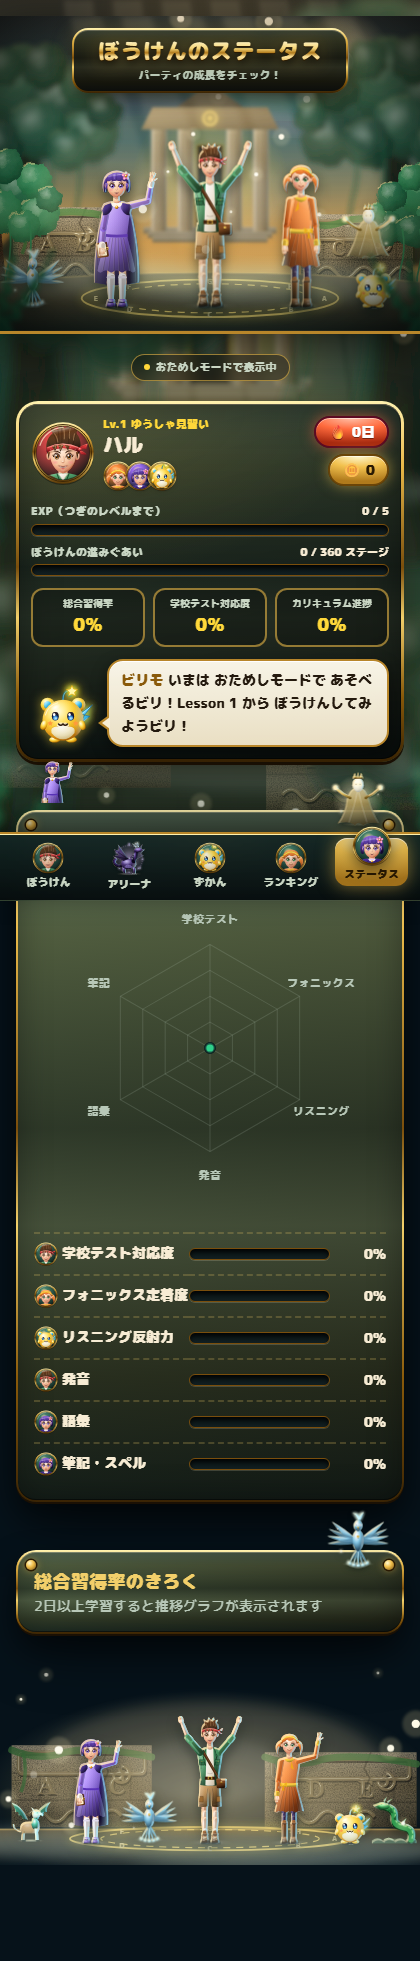
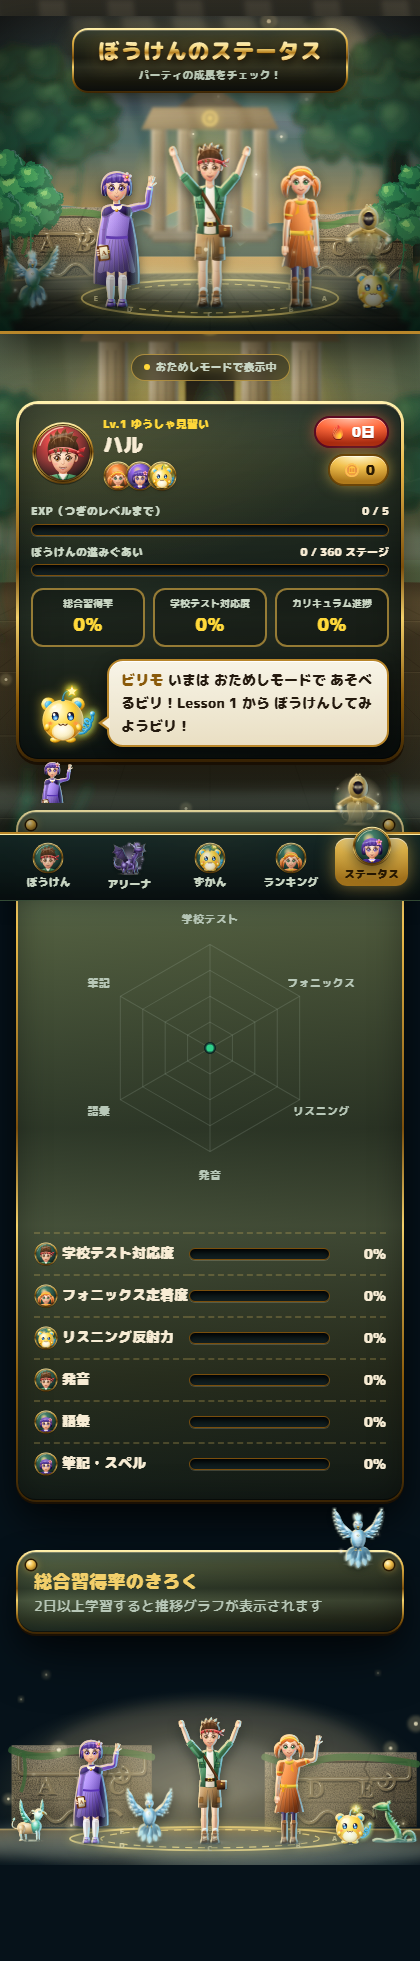
Phase 10: DB を止めたままスモークテスト → 見つけた問題をぜんぶ修正して再確認（テストの選択肢の重複、マップの「ここ！」とワールド名の重なり、かいわの返事が「Hi!」だけになる、レッスン画面の Session 表記を Lesson に統一。最終スクリーンショットは docs/night2/screens/final）

diff --git a/src/components/map/WorldMap.tsx b/src/components/map/WorldMap.tsx
@@ -229,6 +229,10 @@ export function WorldMap({ nodes }: { nodes: StageNode[] }) {
         const left = p.x > W / 2;
         const bx = left ? p.x - 150 : p.x + 38;
         const sleepy = safeNodes[curIdx]?.status === "WAIT_TOMORROW";
+        // ワールドの さいしょの ステージでは 上に ワールド名の プレートが あるので、ビリモと「ここ！」は ステージの よこ（パーティと はんたい がわ）に おく
+        const firstOfWorld = curIdx === 0 || safeNodes[curIdx - 1]?.world !== safeNodes[curIdx]?.world;
+        const birimo = firstOfWorld ? { x: left ? p.x + 30 : p.x - 76, y: p.y - 26 } : { x: left ? p.x - 54 : p.x + 8, y: p.y - 92 };
+        const tag = firstOfWorld ? { x: birimo.x + 23, y: p.y - 34 } : { x: left ? p.x - 28 : p.x + 30, y: p.y - 100 };
         return (
           <g pointerEvents="none">
             <path d={`M${bx + 30} ${p.y - 170} L${bx + 70} ${p.y - 170} L${bx + 112} ${p.y + 30} L${bx - 12} ${p.y + 30} Z`} fill="#fff1c2" opacity={0.12} filter="url(#f-dof-2)" />
@@ -237,9 +241,9 @@ export function WorldMap({ nodes }: { nodes: StageNode[] }) {
               {([["riko", 0, 0.42], ["kiko", 66, 0.4], ["haru", 26, 0.5]] as const).map(([id, dx, s]) => (
                 <g key={id} transform={`translate(${bx + dx} ${p.y + 30 - 170 * s})`}><g transform={`scale(${s})`}><Standing id={id} pose={id === "haru" ? "point" : "wave"} /></g></g>
               ))}
-              <g transform={`translate(${left ? p.x - 54 : p.x + 8} ${p.y - 92}) scale(0.46)`}><g className="bob"><BirimoArt mood={sleepy ? "sleepy" : "excited"} /></g></g>
+              <g transform={`translate(${birimo.x} ${birimo.y}) scale(0.46)`}><g className="bob"><BirimoArt mood={sleepy ? "sleepy" : "excited"} /></g></g>
             </g>
-            <g transform={`translate(${left ? p.x - 28 : p.x + 30} ${p.y - 100})`}>
+            <g transform={`translate(${tag.x} ${tag.y})`}>
               <rect x={-26} y={-14} width={52} height={20} rx={10} fill="#08150f" stroke="#e9b949" strokeWidth={1.5} />
               <text y={1} textAnchor="middle" fontSize={11} fontWeight={900} fill="#f2cf6a">{sleepy ? "また明日" : "ここ！"}</text>
             </g>

diff --git a/src/lib/conversation/engine.ts b/src/lib/conversation/engine.ts
@@ -204,14 +204,19 @@ export function scriptedReply(input: ScriptedInput): ConversationReply {
   const aiSaid = new Set(history.filter((t) => t.role === "ai").map((t) => t.text.toLowerCase()));
   const childWords = new Set(normalizeWords(childText));
   const childContent = new Set(contentWords(childText));
+  // 子どもが 2つの 文を 言ったとき（"Hello! I'm Ken."）は、台本の いちばん 先まで すすんだ 行に あわせる
+  // （さいしょの "Hello!" に あわせると 返事が "Hi!" だけに なり、かいわが すすまない）
   let bestIdx = -1;
   let bestScore = 0;
+  const contentIdx: number[] = [];
   conv.lines.forEach((l, i) => {
     const lw = normalizeWords(l.en);
     if (lw.length === 0) return;
     const content = lw.filter((w) => !STOPWORDS.has(w));
-    const score = content.filter((w) => childContent.has(w)).length * 2 + lw.filter((w) => childWords.has(w)).length / lw.length;
+    const contentHits = content.filter((w) => childContent.has(w)).length;
+    const score = contentHits * 2 + lw.filter((w) => childWords.has(w)).length / lw.length;
     if (score > bestScore) { bestScore = score; bestIdx = i; }
+    if (contentHits > 0) contentIdx.push(i);
   });
 
   const aiSaidList = [...aiSaid];
@@ -219,6 +224,9 @@ export function scriptedReply(input: ScriptedInput): ConversationReply {
     const en = conv.lines[i]?.en.trim().toLowerCase();
     return !!en && !aiSaidList.some((s) => s === en || s.endsWith(` ${en}`));
   };
+  const hasNext = (i: number) => conv.lines.some((_, j) => j > i && unused(j));
+  const furthest = [...contentIdx].reverse().find(hasNext);
+  if (furthest !== undefined && furthest > bestIdx && hasNext(furthest)) bestIdx = furthest;
   let pick = -1;
   if (bestIdx >= 0) for (let i = bestIdx + 1; i < conv.lines.length; i++) if (unused(i)) { pick = i; break; }
   // 見つからないときは、まだ言っていない行を順番に

diff --git a/tests/choices-unique.test.ts b/tests/choices-unique.test.ts
@@ -1,0 +1,33 @@
+import { describe, expect, it } from "vitest";
+import { ASSESSMENTS, LESSONS } from "@/lib/curriculum";
+import { buildLessonFlow, buildTestQuestions, type Question } from "@/lib/curriculum/questions";
+
+/** 選択肢の 文字が かさなると どちらを えらんでも おなじに 見える（まとめテスト 1〜5 で「ジャンプして。」が 2つ 出ていた） */
+function dupes(qs: readonly Question[]): string[] {
+  const bad: string[] = [];
+  for (const q of qs) {
+    if (!q.choices) continue;
+    const labels = q.choices.map((c) => c.label.trim());
+    if (new Set(labels).size !== labels.length) bad.push(`${q.type} ${q.itemId}: ${labels.join(" / ")}`);
+  }
+  return bad;
+}
+
+describe("選択肢が かさならない", () => {
+  it("すべての テスト（いくつかの seed）", () => {
+    const bad: string[] = [];
+    for (const a of ASSESSMENTS) for (const seed of [1, 2, 3, 42]) bad.push(...dupes(buildTestQuestions(a, { seed })).map((d) => `${a.id}: ${d}`));
+    expect(bad).toEqual([]);
+  });
+
+  it("すべての レッスン（クイズ・スピードリスニング）", () => {
+    const bad: string[] = [];
+    for (const l of LESSONS) {
+      for (const step of buildLessonFlow(l)) {
+        const qs = (step as { questions?: Question[] }).questions ?? (step as { rounds?: { questions: Question[] }[] }).rounds?.flatMap((r) => r.questions) ?? [];
+        bad.push(...dupes(qs).map((d) => `L${l.lessonNo}: ${d}`));
+      }
+    }
+    expect(bad).toEqual([]);
+  });
+});

diff --git a/src/app/lesson/[lessonNo]/page.tsx b/src/app/lesson/[lessonNo]/page.tsx
@@ -119,9 +119,9 @@ export default function LessonPage({ params }: { params: Promise<{ lessonNo: str
   return (
     <div className="space-y-4">
       <OfflineNote show={offline} />
-      {s.kind === "teacher_video" && <HeroScene title={`Session ${lesson.lessonNo}`} subtitle={`${lesson.title}｜${lesson.titleJa}`} variant="lesson" />}
+      {s.kind === "teacher_video" && <HeroScene title={`Lesson ${lesson.lessonNo}`} subtitle={`${lesson.title}｜${lesson.titleJa}`} variant="lesson" />}
       <header className="rpg-wood p-3">
-        <p className="font-title text-xs text-[var(--volt)]">Session {lesson.lessonNo} ・ {worldName(lesson.world)} ・ {lesson.school.grade}「{lesson.school.topic}」</p>
+        <p className="font-title text-xs text-[var(--volt)]">Lesson {lesson.lessonNo} ・ {worldName(lesson.world)} ・ {lesson.school.grade}「{lesson.school.topic}」</p>
         <h1 className="text-xl font-black">{lesson.title} <span className="text-base text-[var(--on-dark-2)]">{lesson.titleJa}</span></h1>
         <ol className="mt-3 flex gap-1" aria-label="レッスンの進み具合">
           {steps.map((x, i) => (

diff --git a/src/lib/curriculum/questions.ts b/src/lib/curriculum/questions.ts
@@ -435,8 +435,20 @@ function shuffle<T>(arr: readonly T[], rng: () => number): T[] {
 }
 
 function distractors(target: LearningItemDef, pool: readonly LearningItemDef[], n: number, rng: () => number) {
-  const same = pool.filter((p) => p.id !== target.id && p.kind === target.kind && p.text !== target.text);
-  return shuffle(same, rng).slice(0, n);
+  // おなじ ことば・おなじ 日本語の 項目が べつの 回にも あるので、選択肢が かさならないように 1つずつに する
+  const norm = (s: string) => s.trim().toLowerCase();
+  const seenText = new Set([norm(target.text)]);
+  const seenJa = new Set([target.ja.trim()]);
+  const out: LearningItemDef[] = [];
+  for (const p of shuffle(pool, rng)) {
+    if (out.length >= n) break;
+    if (p.id === target.id || p.kind !== target.kind) continue;
+    if (seenText.has(norm(p.text)) || seenJa.has(p.ja.trim())) continue;
+    seenText.add(norm(p.text));
+    seenJa.add(p.ja.trim());
+    out.push(p);
+  }
+  return out;
 }
 
 // ---------------------------------------------------------------------------

diff --git a/scripts/smoke.ts b/scripts/smoke.ts
@@ -7,6 +7,7 @@
  *
  *   npx next build && npx next start -p 3100
  *   npx tsx scripts/smoke.ts http://localhost:3100
+ *   npx tsx scripts/smoke.ts http://localhost:3100 docs/night2/screens/final
  *
  * さいごに おためしモードの 流れも 確かめる:
  *   API（DB なし）: レッスン完了・かいわ・まとめ視聴 が success / ok で 返る
@@ -17,7 +18,8 @@ import path from "node:path";
 import { chromium, type Browser, type Page } from "playwright";
 
 const BASE = (process.argv[2] ?? process.env.SMOKE_URL ?? "http://localhost:3000").replace(/\/$/, "");
-const OUT = path.resolve(__dirname, "../docs/night2/screens");
+/** 保存先（2つめの 引数 か SMOKE_OUT で かえられる。さいごの 確認は docs/night2/screens/final） */
+const OUT = path.resolve(process.argv[3] ?? process.env.SMOKE_OUT ?? path.resolve(__dirname, "../docs/night2/screens"));
 
 /** 各ワールドの さいしょの レッスン（1, 31, 61, … 331） */
 const WORLD_LESSONS = Array.from({ length: 12 }, (_, i) => i * 30 + 1);

diff --git a/tests/conversation.test.ts b/tests/conversation.test.ts
@@ -90,6 +90,13 @@ describe("台本エンジン: 返事", () => {
     expect(r.turn).toBe(1);
   });
 
+  it("2つの 文（Hello! I'm Ken.）は 台本の 先の 行に あわせて すすむ（Hi! だけに ならない）", () => {
+    const r = scriptedReply({ conversation: C1, history: start, childText: "Hello! I'm Ken." });
+    expect(r.replyEn).not.toMatch(/^(Great! )?Hi!$/);
+    expect(r.replyEn).not.toContain("Ken");
+    expect(r.usedTarget).toBe(true);
+  });
+
   it("子どもの名前をオウム返ししない", () => {
     const r = scriptedReply({ conversation: C1, history: start, childText: "I'm Takeshi" });
     expect(r.replyEn).not.toMatch(/takeshi/i);

diff --git a/docs/night2/PROGRESS.md b/docs/night2/PROGRESS.md
@@ -299,3 +299,24 @@ PyMuPDF で 12冊 すべてを 開いて 確認: どの冊も 表紙2 ＋ レッ
 - ArtDefs に 追加: `el-<属性>-pale`・`g-tawny`・`mon-fade`（マスク）
 - どれも 有名な 作品の デザインには 寄せていない（ドラゴン・グリフォン などは 神話の 生きもの）
 - tsc / vitest（24ファイル・700件）/ next build すべて 通過
+
+## Phase 10: スモークテスト（DB を 止めた まま）→ ぜんぶ 直して もう一度
+
+### やったこと
+- `npx next build` → `npx next start`（DB に つながらない おためしモード。/api/map が `offline:true` を 返すのを 確認）→ `npx tsx scripts/smoke.ts`
+- 1回目: スクリプトの チェック（pageerror・console.error・5xx・404・エラー文言・よみこみ中で 止まる）は 21画面＋おためしの 流れ すべて 通過。でも スクリーンショットを 1枚ずつ 見ると 次の 問題が あったので 直した
+
+### 見つけて 直した 問題
+1. **テストの 選択肢が かさなる**（まとめテスト 1〜5 で「🦘 ジャンプして。」が 2つ、「うれしい」が 2つ など）。同じ ことば・同じ 日本語の 項目が べつの 回にも あるのに、ダミーの 選択肢を 1つずつに していなかった → `distractors()` で 英語・日本語の どちらかが かさなる 項目は はぶく。全テスト×4つの seed と 全360レッスンの クイズ・スピードリスニングで 選択肢が かさならない ことを たしかめる テスト `tests/choices-unique.test.ts` を 追加（直す前の コードでは 失敗する ことも 確認）
+2. **マップの「ここ！」と ビリモが ワールド名の プレートに かさなる**（ワールドの さいしょの ステージが 現在地の とき。Lesson 1 で いつも 起きる）→ その ときだけ ステージの よこ（パーティと はんたい がわ）に おく
+3. **かいわの 台本の 返事が「Great! Hi!」だけ**（子どもが「Hello! I'm Ken.」と 2つの 文を 言うと、さいしょの "Hello!" に あわせて つぎの 行 "Hi!" を 返していた）→ 子どもの ことばと 中身の 単語が あう 行の うち、台本の いちばん 先まで すすんだ 行（つぎの 行が まだ のこっている もの）に あわせる。いまは「Great! Nice to meet you, too.」。名前は オウム返し しない まま。テストを 1件 追加
+4. **レッスン画面だけ「Session 31」**、マップ・ホーム・まとめは「Lesson 31」→ 子どもに 見える 表示を「Lesson」に そろえた
+- `scripts/smoke.ts` に 保存先の 引数を 追加（`npx tsx scripts/smoke.ts <URL> docs/night2/screens/final`）
+
+### 2回目（さいご）
+- 作りなおして 新しい サーバーで もう一度 → **21画面＋おためしの 流れ すべて OK・問題 0**。スクリーンショットは `docs/night2/screens/final/`、ログは `night-logs/night2/10-smoke.log`
+- tsc / vitest（25ファイル・703件）/ next build すべて 通過
+
+### 判断したこと
+- 前から 3100番で 動いていた サーバーは だれが 起こした ものか わからない（古い ビルドかも しれない）ので 止めずに、新しい ビルドは べつの ポートで 動かして 確かめた
+- まとめ動画の 画面の カチンコの 絵は 再生 はじめの コマ なので そのまま
